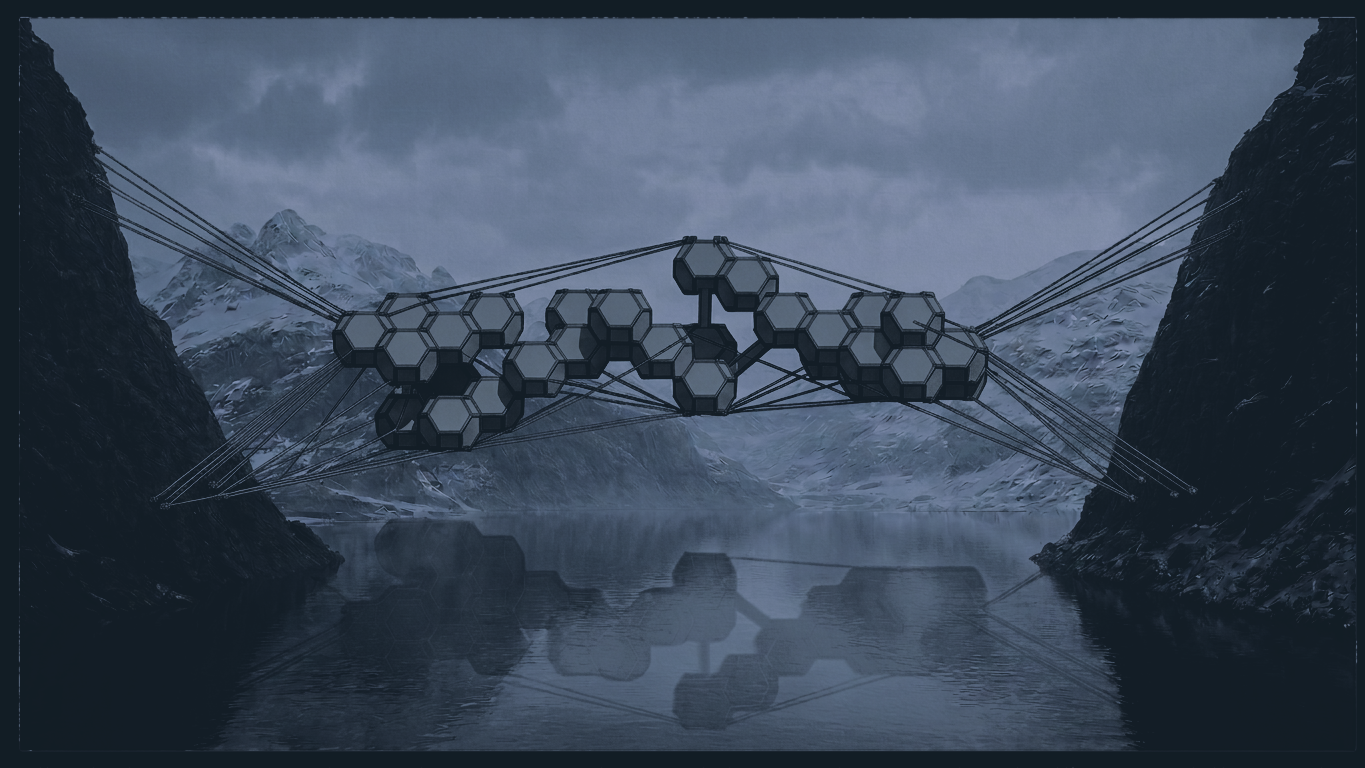
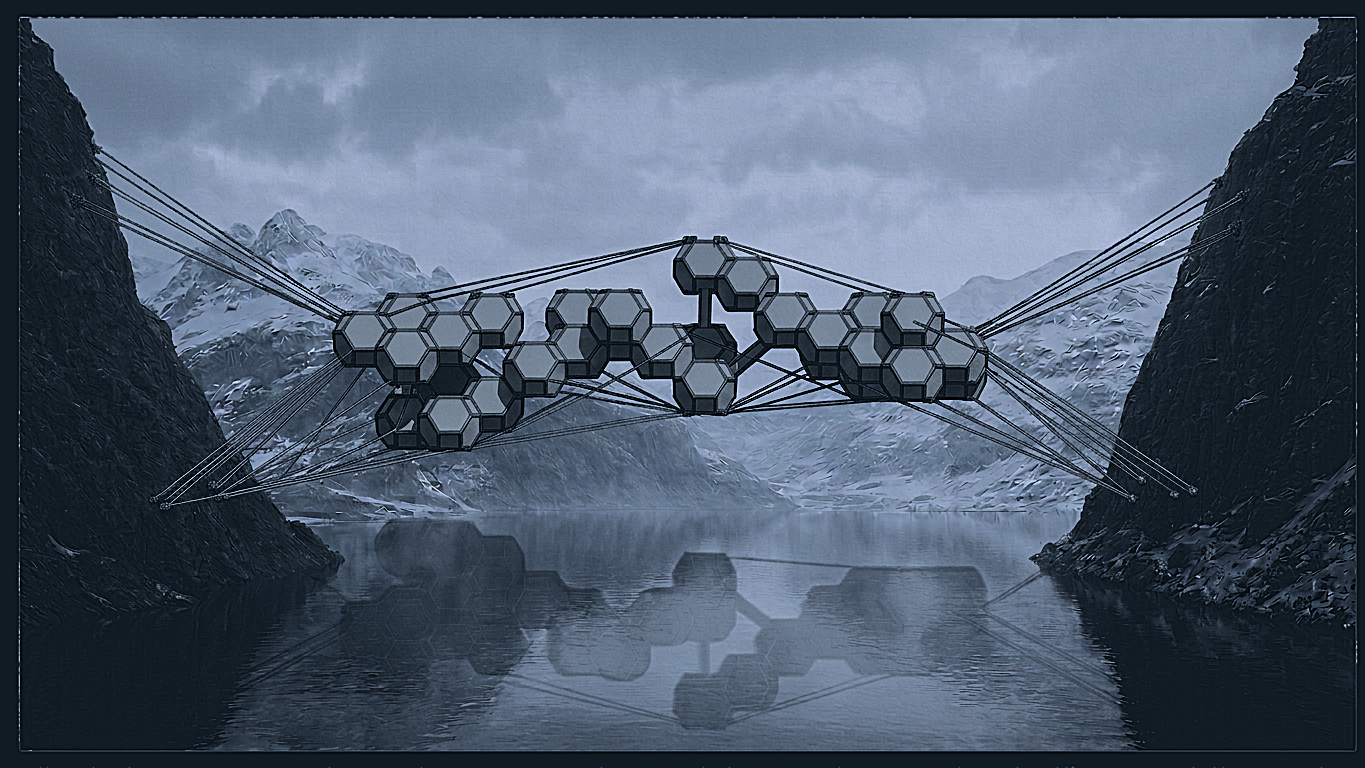
Enhance cinematic grade: more detail + matched exposure
- style_render.py: detail_boost() re-injects the source's high-frequency
  detail after the grade (render_grade's tone compression softened it);
  CINEMATIC re-tuned to the example's exposure (darken 1.0, cool 1.0)
- render 3.cinematic.png: 1365x768 native size, sharpness restored
- GENDO cinematic regenerated with the same settings for a matched pair
- download_server.py: gallery page with featured/badged new renders
- renders/preview.render3_detail.png: example vs render 3 comparison

diff --git a/download_server.py b/download_server.py
@@ -76,35 +76,71 @@ class Handler(http.server.BaseHTTPRequestHandler):
         self.wfile.write(data)
 
     def index(self):
+        IMG_EXT = (".png", ".jpg", ".jpeg", ".webp", ".gif")
         files = sorted(os.listdir(DIR))
-        rows = []
+        cards = []
+        # feature the newest "matched cinematic style" outputs first
+        def rank(name):
+            n = name.lower()
+            if "cinematic" in n:
+                return 0
+            if "glacial-transparent" in n:
+                return 1
+            if n.startswith("preview"):
+                return 2
+            return 3
+        files.sort(key=lambda n: (rank(n), n))
         for name in files:
             fp = os.path.join(DIR, name)
             if not os.path.isfile(fp):
                 continue
+            ext = os.path.splitext(name)[1].lower()
+            if ext not in IMG_EXT:
+                continue
             size = human(os.path.getsize(fp))
             q = urllib.parse.quote(name)
-            rows.append(
-                f"<tr><td>{name}</td><td>{size}</td>"
-                f"<td><a href='/download/{q}'>Download</a></td>"
-                f"<td><a href='/view/{q}' target='_blank'>View</a></td></tr>"
+            badge = ""
+            if "cinematic" in name.lower():
+                badge = "<span class='badge'>NEW · matched style</span>"
+            elif "glacial-transparent" in name.lower():
+                badge = "<span class='badge'>no background</span>"
+            cards.append(
+                f"<figure class='card'>"
+                f"<a href='/view/{q}' target='_blank'>"
+                f"<img loading='lazy' src='/view/{q}' alt='{name}'></a>"
+                f"<figcaption>{badge}<br>{name}<br>"
+                f"<span class='size'>{size}</span> · "
+                f"<a href='/download/{q}'>Download</a></figcaption>"
+                f"</figure>"
             )
         html = f"""<!doctype html><html><head><meta charset='utf-8'>
-<title>Arctic Lens renders</title><style>
+<meta name='viewport' content='width=device-width, initial-scale=1'>
+<title>Arctic Lens — rendered previews</title><style>
 body{{font-family:system-ui,Segoe UI,sans-serif;background:#0a0f1a;color:#dfefff;
- margin:0;padding:40px}} h1{{color:#7de1ff;font-weight:600}}
- table{{border-collapse:collapse;width:100%;max-width:900px;margin-top:16px}}
- td,th{{padding:10px 14px;border-bottom:1px solid #16233a;text-align:left;font-size:14px}}
- a{{color:#39ffb0;text-decoration:none}} a:hover{{text-decoration:underline}}
- th{{color:#8fb0cc;font-weight:600}}
- .hint{{color:#8fb0cc;margin-top:24px;font-size:13px}}
+ margin:0;padding:32px}}
+h1{{color:#7de1ff;font-weight:600;font-size:22px}}
+.sub{{color:#8fb0cc;margin-top:4px;font-size:13px}}
+.grid{{display:grid;grid-template-columns:repeat(auto-fill,minmax(360px,1fr));
+ gap:22px;margin-top:22px}}
+.card{{margin:0;background:#0e1524;border:1px solid #16233a;border-radius:10px;
+ overflow:hidden}}
+.card img{{width:100%;height:auto;display:block;background:
+ repeating-conic-gradient(#1a2334 0% 25%, #101827 0% 50%) 50%/24px 24px}}
+.card figcaption{{padding:10px 12px;font-size:13px;color:#cfE5ff;line-height:1.5}}
+.size{{color:#7d93ae}}
+.badge{{display:inline-block;background:#0f3d2e;color:#39ffb0;border:1px solid #1e6b4a;
+ border-radius:999px;padding:1px 9px;font-size:11px;font-weight:600;
+ margin-bottom:4px;letter-spacing:.4px}}
+a{{color:#39ffb0;text-decoration:none}} a:hover{{text-decoration:underline}}
+.hint{{color:#8fb0cc;margin-top:28px;font-size:13px}}
 </style></head><body>
-<h1>Arctic Lens — rendered files</h1>
-<table><tr><th>File</th><th>Size</th><th></th><th></th></tr>
-{''.join(rows)}
-</table>
-<div class='hint'>“Download” saves the file to your computer. “View” opens it in a new tab
- (right-click → Save image as… on a PNG also works).</div>
+<h1>Arctic Lens — rendered previews</h1>
+<div class='sub'>Click any image to open it full size in a new tab;
+ use <b>Download</b> to save the PNG to your computer.</div>
+<div class='grid'>{''.join(cards)}</div>
+<div class='hint'>Tip: a PNG with a transparent background shows on a checkerboard
+ pattern here; open it full-size and right-click → Save image as… to keep the
+ transparency.</div>
 </body></html>"""
         self._send(200, html.encode("utf-8"), "text/html; charset=utf-8")
 

diff --git a/style_render.py b/style_render.py
@@ -95,16 +95,45 @@ def glacial_transparent(rgb, alpha, params=None, key_tol=22):
 # matched to the user's example (render_cable_hi1/hi2.png): cold cinematic,
 # lifted teal-blue blacks, compressed highlights, no glow, no vignette.
 CINEMATIC = dict(
-    darken=0.72, desat=0.75, cool=1.20, fog=0.10,
-    shadow_tint=[0.074, 0.114, 0.148],
+    darken=1.00, desat=0.75, cool=1.00, fog=0.09,
+    shadow_tint=[0.070, 0.110, 0.145],
 )
 
 
-def cinematic_style(rgb, alpha=None, params=None):
-    """Cold cinematic grade matching the example look. Returns uint8 RGB."""
+def luma(rgb):
+    return 0.2126*rgb[..., 0] + 0.7152*rgb[..., 1] + 0.0722*rgb[..., 2]
+
+
+def detail_boost(graded, src, strength=0.85, sigma=1.6):
+    """Re-inject the source's high-frequency detail into the graded image.
+
+    The cold grade's tone compression + desaturation soften micro-contrast.
+    This adds back a band-pass detail layer from the original luminance while
+    preserving the graded colour balance (channels scaled by the luminance
+    ratio, so hue/saturation stay intact).
+    """
+    g = graded.astype(np.float32)
+    s = src.astype(np.float32)
+    gy = luma(g)
+    sy = luma(s)
+    detail = sy - cv2.GaussianBlur(sy, (0, 0), sigma)
+    ny = np.clip(gy + detail * strength, 0, 255)
+    scale = np.where(gy > 1e-3, ny / (gy + 1e-3), 1.0)
+    out = np.clip(g * scale[..., None], 0, 255)
+    return out.astype(np.uint8)
+
+
+def cinematic_style(rgb, alpha=None, params=None, detail=0.85):
+    """Cold cinematic grade matching the example look, with detail preserved.
+
+    Returns uint8 RGB.
+    """
     params = params or CINEMATIC
     comp = composite_on_void(rgb, alpha)
-    return render_grade(comp, params)
+    out = render_grade(comp, params)
+    if detail and detail > 0:
+        out = detail_boost(out, comp, strength=detail)
+    return out
 
 
 PRESETS = {
